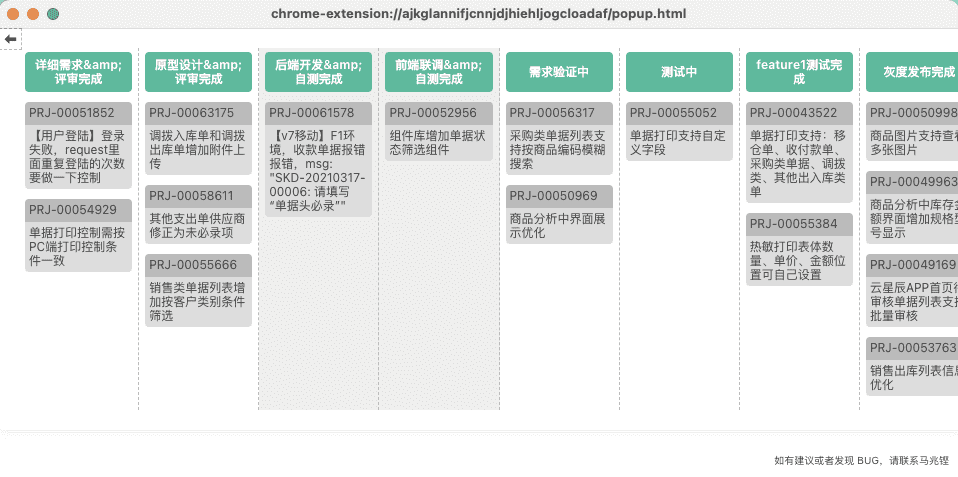
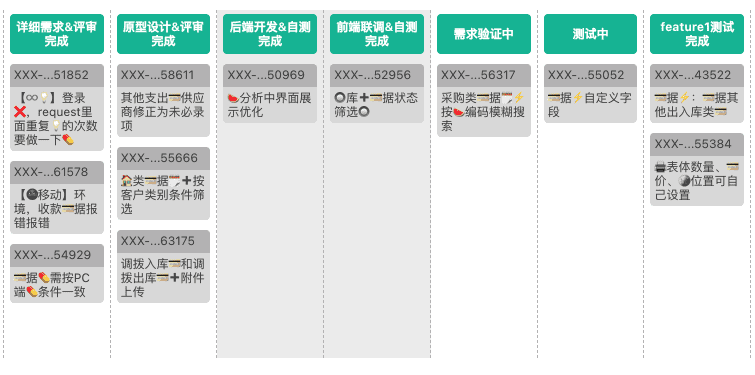
📝:[README] better mock data

diff --git a/src/utils/mock.js b/src/utils/mock.js
@@ -1,103 +1,103 @@
 /* ---------------------------------------------------------------------------------------
 * about:虚假数据
 * author:马兆铿（13790371603 810768333@qq.com）
-* date:2021-
+* date:2077-
 * ---------------------------------------------------------------------------------------- */
 
 const contentDataList = [
   {
-    "code": "PRJ-00050998",
-    "desc": "商品图片支持查看多张图片",
-    "period": "2021年3月迭代1",
+    "code": "XXX-...50998",
+    "desc": "🍉图片⚡查看多张图片",
+    "period": "2077年3月迭代1",
     "current": "灰度发布完成"
   },
   {
-    "code": "PRJ-00049963",
-    "desc": "商品分析中库存金额界面增加规格型号显示",
-    "period": "2021年3月迭代1",
+    "code": "XXX-...49963",
+    "desc": "🍉分析中库存🪙界面➕规格型号显示",
+    "period": "2077年3月迭代1",
     "current": "灰度发布完成"
   },
   {
-    "code": "PRJ-00049169",
-    "desc": "云星辰APP首页待审核单据列表支持批量审核",
-    "period": "2021年3月迭代1",
+    "code": "XXX-...49169",
+    "desc": "☁APP首页待💻💳据🗓⚡批量💻",
+    "period": "2077年3月迭代1",
     "current": "灰度发布完成"
   },
   {
-    "code": "PRJ-00053763",
-    "desc": "销售出库列表信息优化",
-    "period": "2021年3月迭代2",
+    "code": "XXX-...53763",
+    "desc": "🏠出库🗓信息优化",
+    "period": "2077年3月迭代2",
     "current": "灰度发布完成"
   },
   {
-    "code": "PRJ-00052956",
-    "desc": "组件库增加单据状态筛选组件",
-    "period": "2021年3月迭代2",
+    "code": "XXX-...52956",
+    "desc": "🔘库➕💳据状态筛选🔘",
+    "period": "2077年3月迭代2",
     "current": "前端联调&amp;自测完成"
   },
   {
-    "code": "PRJ-00043522",
-    "desc": "单据打印支持：移仓单、收付款单、采购类单据、调拨类、其他出入库类单",
-    "period": "2021年3月迭代2",
+    "code": "XXX-...43522",
+    "desc": "💳据⚡：💳据其他出入库类💳",
+    "period": "2077年3月迭代2",
     "current": "feature1测试完成"
   },
   {
-    "code": "PRJ-00056317",
-    "desc": "采购类单据列表支持按商品编码模糊搜索",
-    "period": "2021年4月迭代1",
+    "code": "XXX-...56317",
+    "desc": "采购类💳据🗓⚡按🍉编码模糊搜索",
+    "period": "2077年4月迭代1",
     "current": "需求验证中"
   },
   {
-    "code": "PRJ-00051852",
-    "desc": "【用户登陆】登录失败，request里面重复登陆的次数要做一下控制",
-    "period": "2021年4月迭代1",
+    "code": "XXX-...51852",
+    "desc": "【♾💡】登录❌，request里面重复💡的次数要做一下💊",
+    "period": "2077年4月迭代1",
     "current": "详细需求&amp;评审完成"
   },
   {
-    "code": "PRJ-00061578",
-    "desc": "【v7移动】F1环境，收款单据报错报错，msg: \"SKD-20210317-00006: 请填写 “单据头必录”\"",
-    "period": "2021年4月迭代1",
+    "code": "XXX-...61578",
+    "desc": "【🌚移动】环境，收款💳据报错报错",
+    "period": "2077年4月迭代1",
     "current": "详细需求&amp;评审完成"
   },
   {
-    "code": "PRJ-00055052",
-    "desc": "单据打印支持自定义字段",
-    "period": "2021年4月迭代1",
+    "code": "XXX-...55052",
+    "desc": "💳据⚡自定义字段",
+    "period": "2077年4月迭代1",
     "current": "测试中"
   },
   {
-    "code": "PRJ-00050969",
-    "desc": "商品分析中界面展示优化",
-    "period": "2021年4月迭代1",
+    "code": "XXX-...50969",
+    "desc": "🍉分析中界面展示优化",
+    "period": "2077年4月迭代1",
     "current": "后端开发&amp;自测完成"
   },
   {
-    "code": "PRJ-00055384",
-    "desc": "热敏打印表体数量、单价、金额位置可自己设置",
-    "period": "2021年4月迭代1",
+    "code": "XXX-...55384",
+    "desc": "🖨表体数量、💳价、🪙位置可自己设置",
+    "period": "2077年4月迭代1",
     "current": "feature1测试完成"
   },
   {
-    "code": "PRJ-00058611",
-    "desc": "其他支出单供应商修正为未必录项",
-    "period": "2021年4月迭代2",
+    "code": "XXX-...58611",
+    "desc": "其他支出💳供应商修正为未必录项",
+    "period": "2077年4月迭代2",
     "current": "原型设计&amp;评审完成"
   },
   {
-    "code": "PRJ-00055666",
-    "desc": "销售类单据列表增加按客户类别条件筛选",
-    "period": "2021年4月迭代2",
+    "code": "XXX-...55666",
+    "desc": "🏠类💳据🗓➕按客户类别条件筛选",
+    "period": "2077年4月迭代2",
     "current": "原型设计&amp;评审完成"
   },
   {
-    "code": "PRJ-00063175",
-    "desc": "调拨入库单和调拨出库单增加附件上传",
-    "period": "2021年4月迭代2",
+    "code": "XXX-...63175",
+    "desc": "调拨入库💳和调拨出库💳➕附件上传",
+    "period": "2077年4月迭代2",
     "current": "原型设计&amp;评审完成"
   },
   {
-    "code": "PRJ-00054929",
-    "desc": "单据打印控制需按PC端打印控制条件一致",
+    "code": "XXX-...54929",
+    "desc": "💳据💊需按PC端💊条件一致",
     "period": "移动应用部需求池（以评估要做）",
     "current": "详细需求&amp;评审完成"
   }
